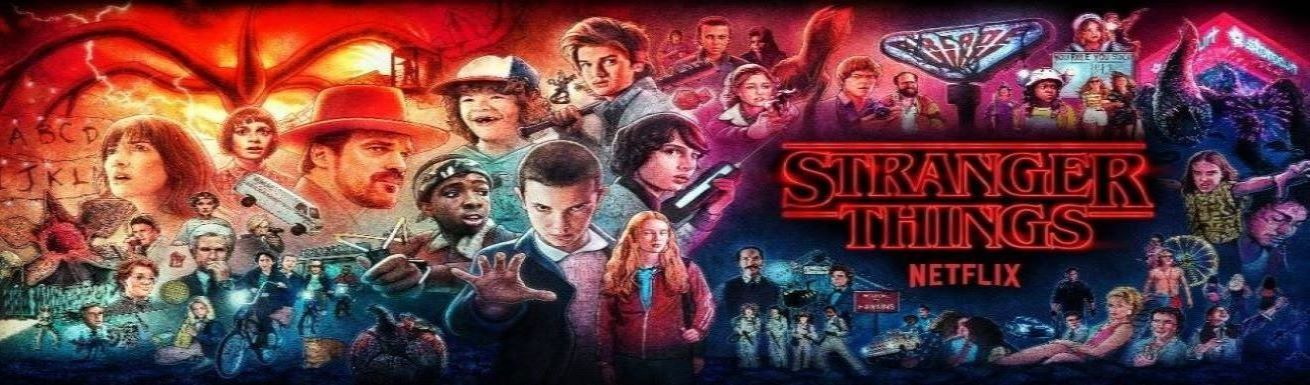
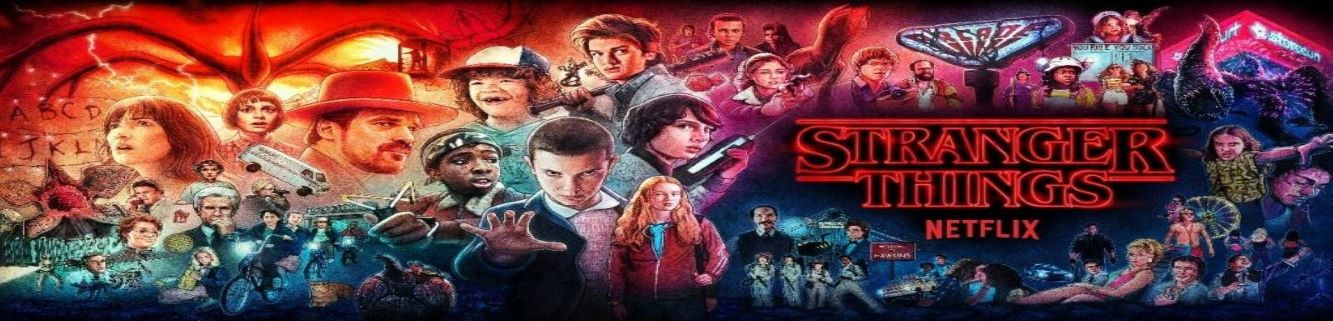
8 update
Changement des bandeaux

diff --git a/personnage.html b/personnage.html
@@ -7,19 +7,21 @@
         <title>Stranger Things</title>
     </head>
     <body class="styleback">
-        <IMG SRC="bandeau acceuil.jpg">
-            <table class="tableau" CELLPADDING=56>
-            <tr>
-                <td><A HREF="index.html">Acceuil</A></td>
-                <td><A HREF="Présentation.html">Présentation</A></td>
-                <td><A HREF="résumé.html">Résumé</A></td>
-                <td><A HREF="personnage.html">Personnage</A></td>
-                <td><A HREF="info.html">Info</A></td>
-                <td><A HREF="test.html">Test</A></td>
+        <h1 class="header"></h1>>
+        <h1 class="header1">
+            <table  CELLPADDING=56>
+                <tr>
+                    <td><A HREF="index.html">Acceuil</A></td>
+                    <td><A HREF="Présentation.html">Présentation</A></td>
+                    <td><A HREF="résumé.html">Résumé</A></td>
+                    <td><A HREF="personnage.html">Personnage</A></td>
+                    <td><A HREF="info.html">Info</A></td>
+                    <td><A HREF="test.html">Test</A></td>
             </tr>
-        </table>
+            </table>
+        </h1>
         <center><IMG SRC="personnage.png"></center>
-        <center><table border=2 class="style1">
+        <center><table border=2 class="tabperso">
             <tr>
                 <td><IMG SRC="Onze.jpg"></td>
                 <td><IMG SRC="dustin.jpg"></td>
@@ -28,7 +30,7 @@
                 <td><IMG SRC="Mike.jpg"></td>
                 <td><IMG SRC="Will.jpg"></td>
             </tr>
-            <tr> 
+            <tr class="style1"> 
                 <td>Onze</td>
                 <td>Dustin Henderson</td>
                 <td>Jim Hopper</td>
@@ -36,7 +38,7 @@
                 <td>Mike Wheeler</td>
                 <td>Will Byers</td>
             </tr>
-            <tr> 
+            <tr class="style1"> 
                 <td>Millie Bobby Brown</td>
                 <td>Gaten Matarazzo</td>
                 <td>David Harbour</td>

diff --git a/test.html b/test.html
@@ -8,16 +8,19 @@
         <title>Stranger Things</title>
     </head>
     <body class="styleback">
-        <IMG SRC="bandeau acceuil.jpg">
-        <table class="tableau" CELLPADDING=56>
-            <tr><td><A HREF="index.html">Acceuil</A></td>
-            <td><A HREF="Présentation.html">Présentation</A></td>
-            <td><A HREF="résumé.html">Résumé</A></td>
-            <td><A HREF="personnage.html">Personnage</A></td>
-            <td><A HREF="info.html">Info</A></td>
-            <td><A HREF="test.html">Test</A></td>
-        </tr>
-        </table>
+        <h1 class="header"></h1>>
+        <h1 class="header1">
+            <table  CELLPADDING=56>
+                <tr>
+                    <td><A HREF="index.html">Acceuil</A></td>
+                    <td><A HREF="Présentation.html">Présentation</A></td>
+                    <td><A HREF="résumé.html">Résumé</A></td>
+                    <td><A HREF="personnage.html">Personnage</A></td>
+                    <td><A HREF="info.html">Info</A></td>
+                    <td><A HREF="test.html">Test</A></td>
+            </tr>
+            </table>
+        </h1>
         <center><h1 class="style1">Test</h1></center>
         <p class="style1">Quelle est le nom de la serie?</p>
         <input id="val1" type="text">

diff --git a/Présentation.html b/Présentation.html
@@ -7,17 +7,19 @@
         <title>Stranger Things</title>
     </head>
     <body class="styleback">
-        
-        <IMG SRC="bandeau acceuil.jpg">
-        <table class="tableau" CELLPADDING=56>
-            <tr><td><A HREF="index.html">Acceuil</A></td>
-            <td><A HREF="Présentation.html">Présentation</A></td>
-            <td><A HREF="résumé.html">Résumé</A></td>
-            <td><A HREF="personnage.html">Personnage</A></td>
-            <td><A HREF="info.html">Info</A></td>
-            <td><A HREF="test.html">Test</A></td>
-        </tr>
-        </table>
+        <h1 class="header"></h1>>
+        <h1 class="header1">
+            <table  CELLPADDING=56>
+                <tr>
+                    <td><A HREF="index.html">Acceuil</A></td>
+                    <td><A HREF="Présentation.html">Présentation</A></td>
+                    <td><A HREF="résumé.html">Résumé</A></td>
+                    <td><A HREF="personnage.html">Personnage</A></td>
+                    <td><A HREF="info.html">Info</A></td>
+                    <td><A HREF="test.html">Test</A></td>
+            </tr>
+            </table>
+        </h1>
         <center><IMG SRC="Présentation.png"></center>
     </body>
 </html>

diff --git a/résumé.html b/résumé.html
@@ -7,8 +7,9 @@
         <title>Stranger Things</title>
     </head>
     <body class="styleback">
-        <IMG SRC="bandeau acceuil.jpg">
-        <table class="tableau" CELLPADDING=56>
+        <h1 class="header"></h1>>
+        <h1 class="header1">
+            <table  CELLPADDING=56>
             <tr>
                 <td><A HREF="index.html">Acceuil</A></td>
                 <td><A HREF="Présentation.html">Présentation</A></td>
@@ -17,7 +18,8 @@
                 <td><A HREF="info.html">Info</A></td>
                 <td><A HREF="test.html">Test</A></td>
             </tr>
-        </table>
+            </table>
+        </h1>
         <center><IMG SRC="Résumé.png"></center>
         <h3 class="style1">1983<h3>
         <h3 class="style1">    Dimanche, 6 Novembre 1983, Hawkins, Indiana...</h3>

diff --git a/index.html b/index.html
@@ -7,8 +7,9 @@
         <title>Stranger Things</title>
     </head>
     <body class="styleback">
-        <IMG SRC="bandeau acceuil.jpg">
-        <table class="tableau" CELLPADDING=56>
+        <h1 class="header"></h1>>
+        <h1 class="header1">
+        <table  CELLPADDING=56>
             <tr><td><A HREF="index.html">Acceuil</A></td>
             <td><A HREF="Présentation.html">Présentation</A></td>
             <td><A HREF="résumé.html">Résumé</A></td>
@@ -17,6 +18,7 @@
             <td><A HREF="test.html">Test</A></td>
         </tr>
         </table>
+        </h1>
         <center><IMG SRC="Bienvenue.png"></center>
         <p class="style1">Bienvenue dans ce petit site ou vous pourrez trouver de nombreuses information sur la série STRANGER THINGS<br>
         <br>

diff --git a/style.css b/style.css
@@ -1,6 +1,5 @@
 .style1
 {
-background-color : black;
 color : red;
 font-weight:bold;
 font-family: monospace;
@@ -16,4 +15,22 @@ background-color: black;
 background-color: red;
 color: black;
 font-size: xx-large;
+}
+
+.header {
+height: 300px;
+margin: 0;
+background : url('bandeau\ acceuil.jpg') repeat-x;
+}
+
+.header1  
+{
+height: 150px;
+margin: 0;
+background : red; 
+}
+
+.tabperso
+{
+color: violet;
 }

diff --git a/test.js b/test.js
@@ -1,7 +1,10 @@
 function test1()
 {
     var a = document.getElementById('val1').value
-    if var a = "stranger things", document.getElementsByTagName('div')[0].innerHTML = var a
+    let b = 'Stranger Things'
+    if (a = b)
+        alert('Bonne réponse.')
+    else alert('Réponse fausse.')
 
 
 }
